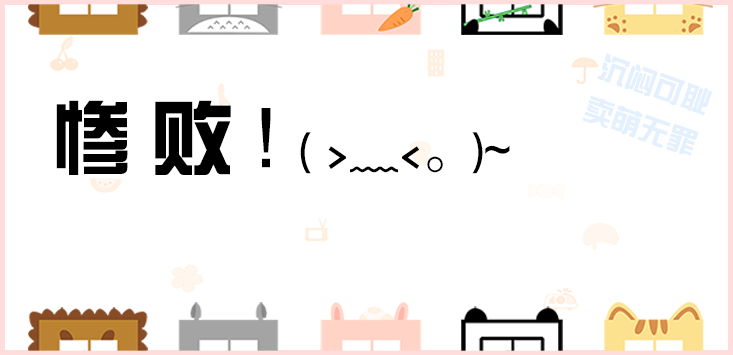
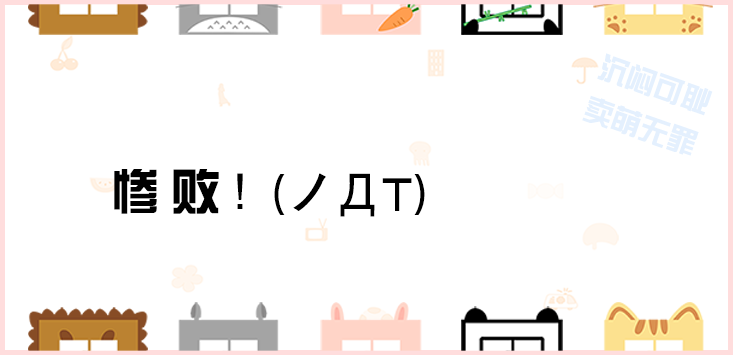
加入了重玩一次的功能

Changed region(s): [[0.06, 0.2789, 0.4202, 0.6197], [0.4202, 0.4028, 0.6003, 0.6197], [0.6303, 0.3718, 0.6903, 0.4958]]

diff --git a/src/GameScene.js b/src/GameScene.js
@@ -43,12 +43,13 @@ var GameScene = cc.Scene.extend({
         Animal.push(catt);
         var pandaa = new Panda();
         Animal.push(pandaa);
-        var totoroo = new Totoro();
-        Animal.push(totoroo);
-        var bunnyy = new Bunny();
-        Animal.push(bunnyy);
         var lionn = new Lion();
         Animal.push(lionn);
+        var bunnyy = new Bunny();
+        Animal.push(bunnyy);
+        var totoroo = new Totoro();
+        Animal.push(totoroo);
+
 
         for (var i = 0 ; i <Animal.length; i++ ){
             Animal[i].initData();
@@ -57,7 +58,7 @@ var GameScene = cc.Scene.extend({
 
         //add catcher
         this.catcher = new CatcherSprite();
-        this.catcher.setPosition(cc.p(0, CATCHERLINE));
+        this.catcher.initData();
         this.gameLayer.addChild(this.catcher, g_GameZOder.ui);
 
         for (var i = 0 ; i < TOTALNUM; i++){
@@ -111,11 +112,37 @@ var GameScene = cc.Scene.extend({
             if (catchNum == TOTALNUM){
                 document.getElementById("winBackground").style.visibility = "visible";
                 document.getElementById("share").style.visibility = "visible";
+                document.getElementById("button").style.visibility = "visible";
+                for(var i = 0; i<catchNum; i++){
+                    this.gameLayer.removeChild(Flowers[i], g_GameZOder.ui);
+                }
+                for(var i = life; i<TOTALLIFE; i++){
+                    this.gameLayer.addChild(Drops[i],g_GameZOder.ui);
+                }
+                catchNum = 0;
+                life = TOTALLIFE;
+                for(var i = 0; i<TOTALNUM; i++){
+                    Animal[i].setPosition(cc.p(150*i+50,120))
+                    Animal[i].isCaught = false;
+                }
             }
 
             if (life == 0){
                 document.getElementById("loseBackground").style.visibility = "visible";
                 document.getElementById("share").style.visibility = "visible";
+                document.getElementById("button").style.visibility = "visible";
+                for(var i = 0; i<catchNum; i++){
+                    this.gameLayer.removeChild(Flowers[i], g_GameZOder.ui);
+                }
+                for(var i = life; i<TOTALLIFE; i++){
+                    this.gameLayer.addChild(Drops[i],g_GameZOder.ui);
+                }
+                catchNum = 0;
+                life = TOTALLIFE;
+                for(var i = 0; i<TOTALNUM; i++){
+                    Animal[i].setPosition(cc.p(150*i+50,120))
+                    Animal[i].isCaught = false;
+                }
             }
         }
     }

diff --git a/src/AnimalSprite.js b/src/AnimalSprite.js
@@ -27,6 +27,7 @@ var Cat = AnimalSprite.extend({
     },
 
     initData: function(){
+        this.isCaught = false;
         this.setPosition(cc.p(50,120));
     }
 });
@@ -38,30 +39,8 @@ var Panda =AnimalSprite.extend({
     },
 
     initData: function () {
+        this.isCaught = false;
         this.setPosition(cc.p(200,120));
-    }
-});
-
-var Totoro =AnimalSprite.extend({
-    ctor: function () {
-        this._super();
-        this.initWithFile(s_totoro);
-    },
-
-    initData: function () {
-        this.setPosition(cc.p(650,120));
-    }
-});
-
-
-var Bunny =AnimalSprite.extend({
-    ctor: function () {
-        this._super();
-        this.initWithFile(s_bunny);
-    },
-
-    initData: function () {
-        this.setPosition(cc.p(500,120));
     }
 });
 
@@ -73,6 +52,32 @@ var Lion =AnimalSprite.extend({
     },
 
     initData: function () {
+        this.isCaught = false;
         this.setPosition(cc.p(350,120));
     }
 });
+
+var Bunny =AnimalSprite.extend({
+    ctor: function () {
+        this._super();
+        this.initWithFile(s_bunny);
+    },
+
+    initData: function () {
+        this.isCaught = false;
+        this.setPosition(cc.p(500,120));
+    }
+});
+
+var Totoro =AnimalSprite.extend({
+    ctor: function () {
+        this._super();
+        this.initWithFile(s_totoro);
+    },
+
+    initData: function () {
+        this.isCaught = false;
+        this.setPosition(cc.p(650,120));
+    }
+});
+

diff --git a/index.html b/index.html
@@ -57,8 +57,8 @@
         #share{
             position: absolute;
             font-size: 15px;
-            left: 250px;
-            top: 240px;
+            left: 130px;
+            top: 100px;
             text-align: left;
             z-index: 3;
             visibility: hidden;
@@ -71,6 +71,8 @@
             document.getElementById("startBackground").style.visibility = "hidden";
             document.getElementById("button").style.visibility = "hidden";
             document.getElementById("share").style.visibility = "hidden";
+            document.getElementById("winBackground").style.visibility = "hidden";
+            document.getElementById("loseBackground").style.visibility = "hidden";
         }
     </script>
     <script src="cocos2d.js"></script>
@@ -97,7 +99,7 @@
         <div id = "winBackground"><img src="res/win.png"/></div>
         <div id = "button" onclick="startGame();"></div>
         <!-- JiaThis Button BEGIN -->
-        <div class="jiathis_style" id = "share"><span class="jiathis_txt">分享到：</span>
+        <div class="jiathis_style" id = "share"><span class="jiathis_txt">( ﾟДﾟ)ﾉ⌒⑤分享窝：</span>
             <a class="jiathis_button_qzone"></a>
             <a class="jiathis_button_tsina"></a>
             <a class="jiathis_button_tqq"></a>

diff --git a/src/CatcherSprite.js b/src/CatcherSprite.js
@@ -13,9 +13,15 @@ var CatcherSprite = cc.Sprite.extend({
         this.velocity = cc.p(100, 100);
     },
 
+    initData: function(){
+        this.setPosition(cc.p(0, CATCHERLINE));
+        dx = 8;
+        dy = 0;
+    },
+
     update: function (dt) {
-        if (this._position.x > 733 ) { rdx = -rdx; dx = -dx};
-        if (this._position.x < 0) {rdx = -rdx; dx = -dx};
+        if ((this._position.x > 733)&&(dx > 0) ) { rdx = -rdx; dx = -dx};
+        if ((this._position.x < 0)&&( dx < 0)) {rdx = -rdx; dx = -dx};
         if (this._position.y <= 290) dy=-dy;
         if (this._position.y >= 450 && dx == 0){
             dx = rdx;
